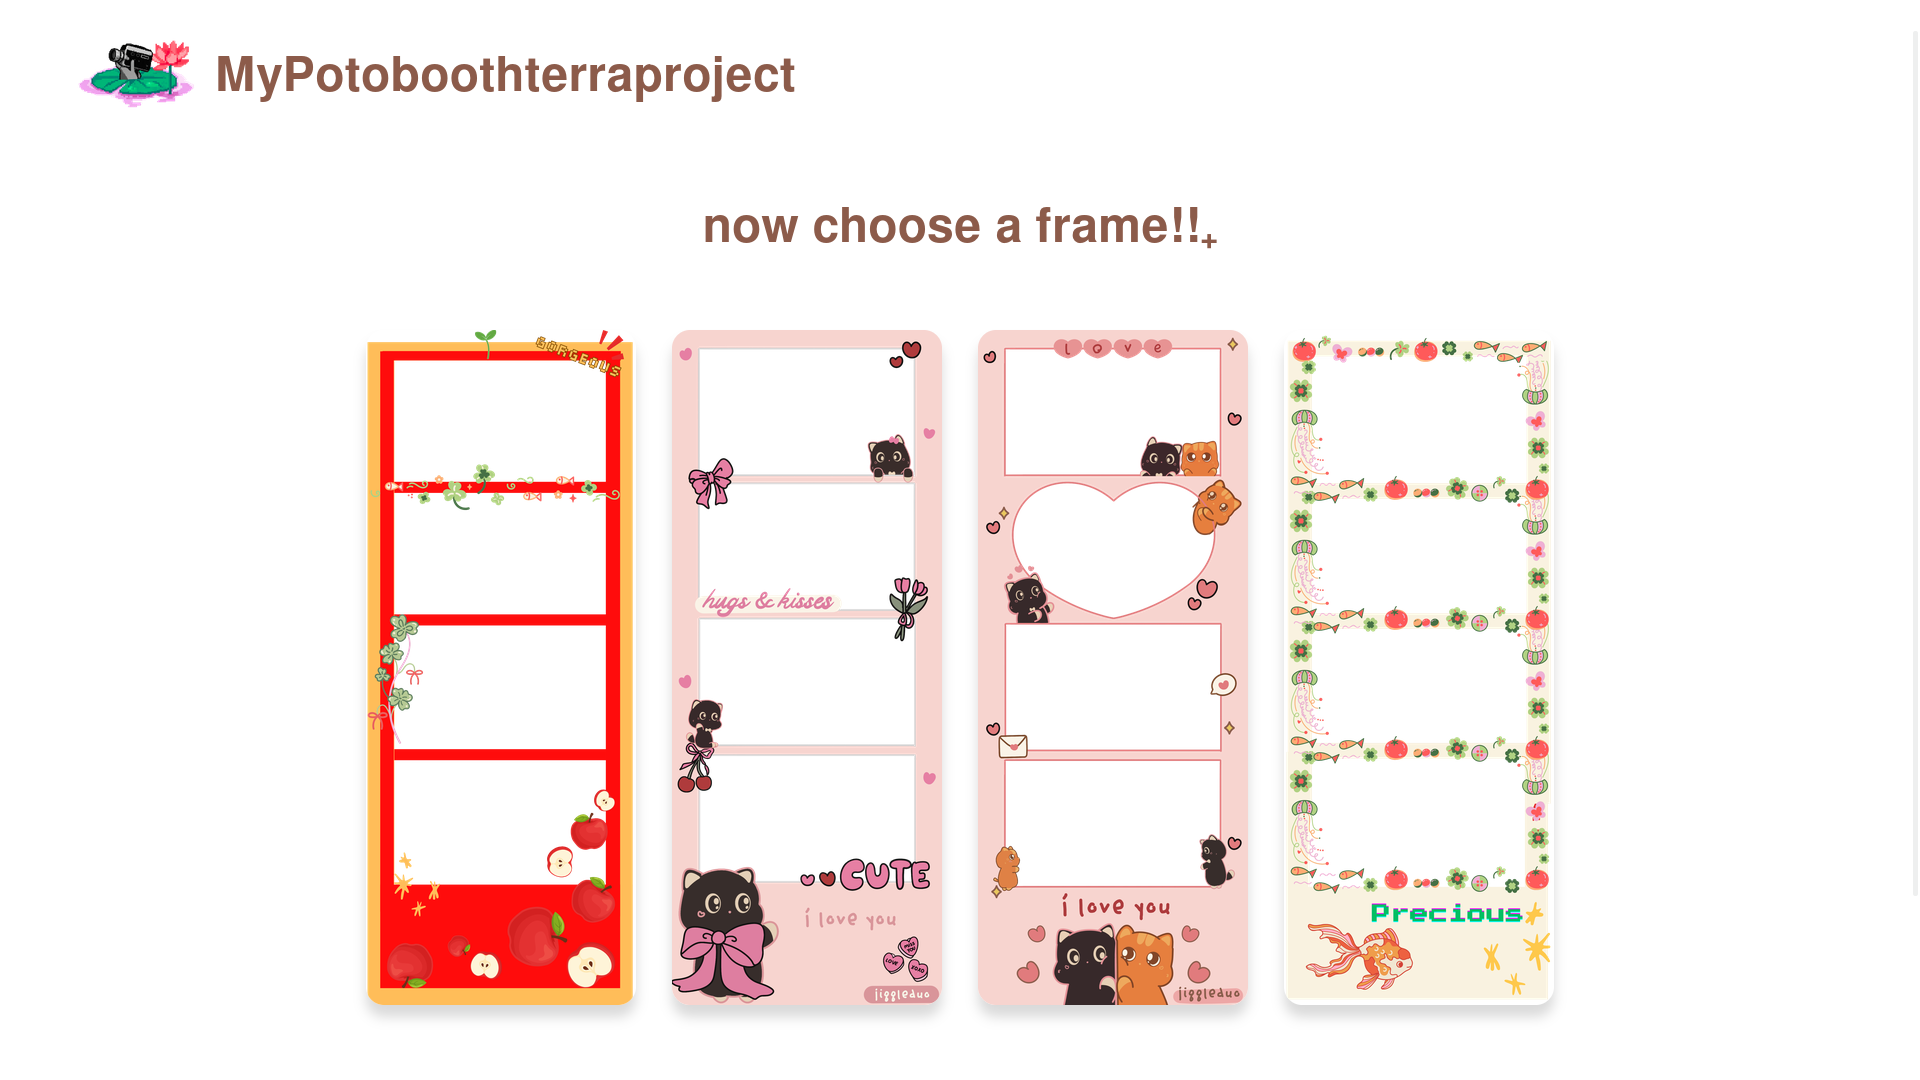
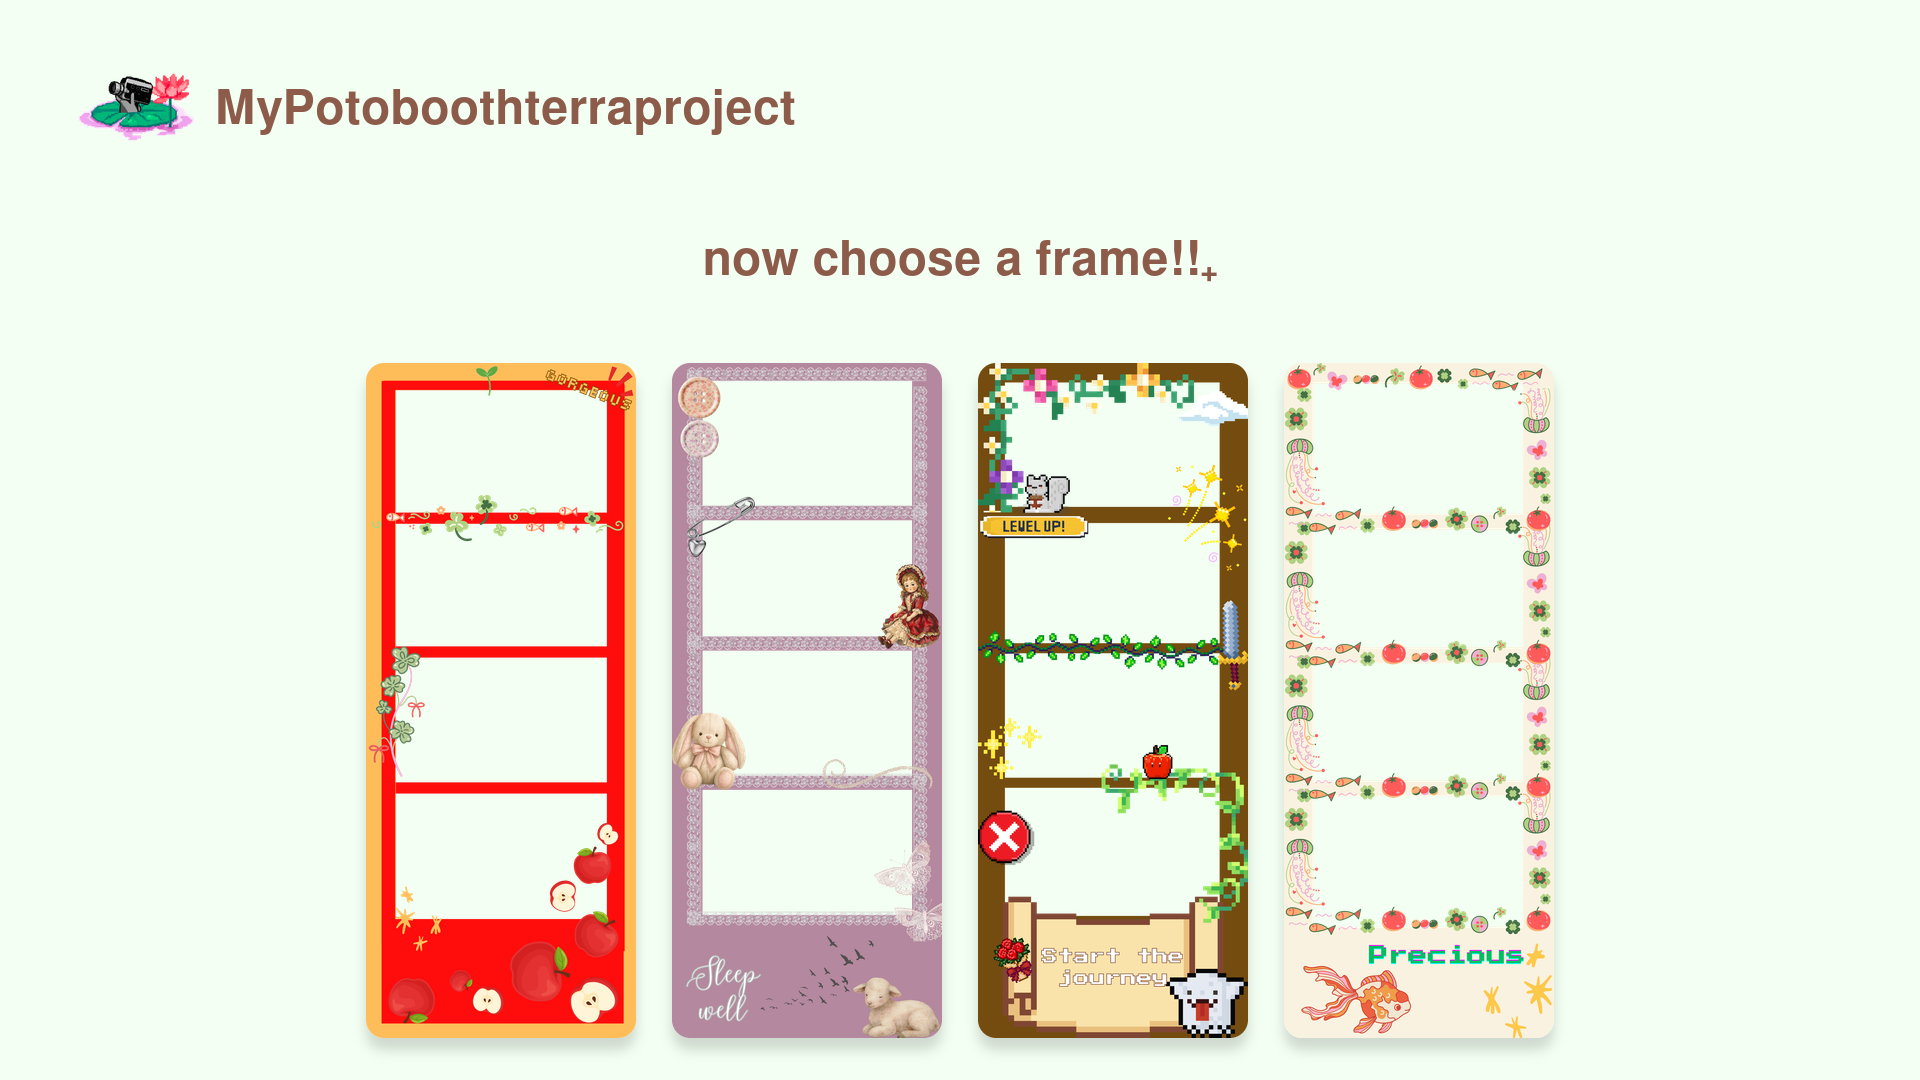
n

Changed region(s): [[0.1875, 0.3056, 0.8125, 0.9778], [0.0312, 0.0306, 0.4375, 0.1222], [0.3438, 0.1833, 0.625, 0.275]]

diff --git a/src/components/Photobooth.js b/src/components/Photobooth.js
@@ -136,7 +136,7 @@ const [selectedFilter, setSelectedFilter] = useState("none");
 
         setPhotos(p => [
             ...p,
-            { img, slotIndex: photoCount, scale, offsetX: 0, offsetY }
+            { img, slotIndex: photoCount, scale, offsetX: 0, offsetY, filter}
         ]);
 
         setCanTakePhoto(true);
